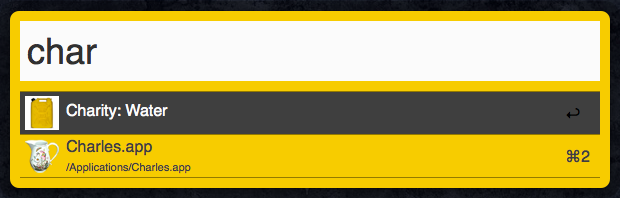
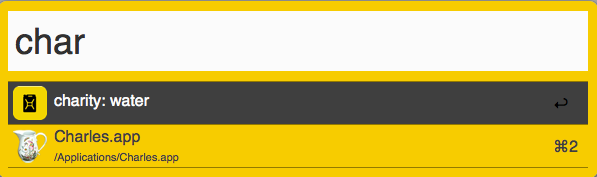
Updated themes with new names and screenshots.

diff --git a/README.md b/README.md
@@ -9,7 +9,7 @@ Provides [Alfred](http://www.alfredapp.com) themes and workflows for [OSX](http:
 * Provides the [Alchemists](http://www.alchemists.io) and [Charity: Water](http://www.charitywater.org)
   installable themes:
 
-[![Alchemists Screenshot](themes/red_alchemist/screenshot.png)](https://github.com/bkuhlmann/alfred)
+[![Alchemists Screenshot](themes/alchemists/screenshot.png)](https://github.com/bkuhlmann/alfred)
 
 [![Charity: Water Screenshot](themes/charity_water/screenshot.png)](https://github.com/bkuhlmann/alfred)
 
